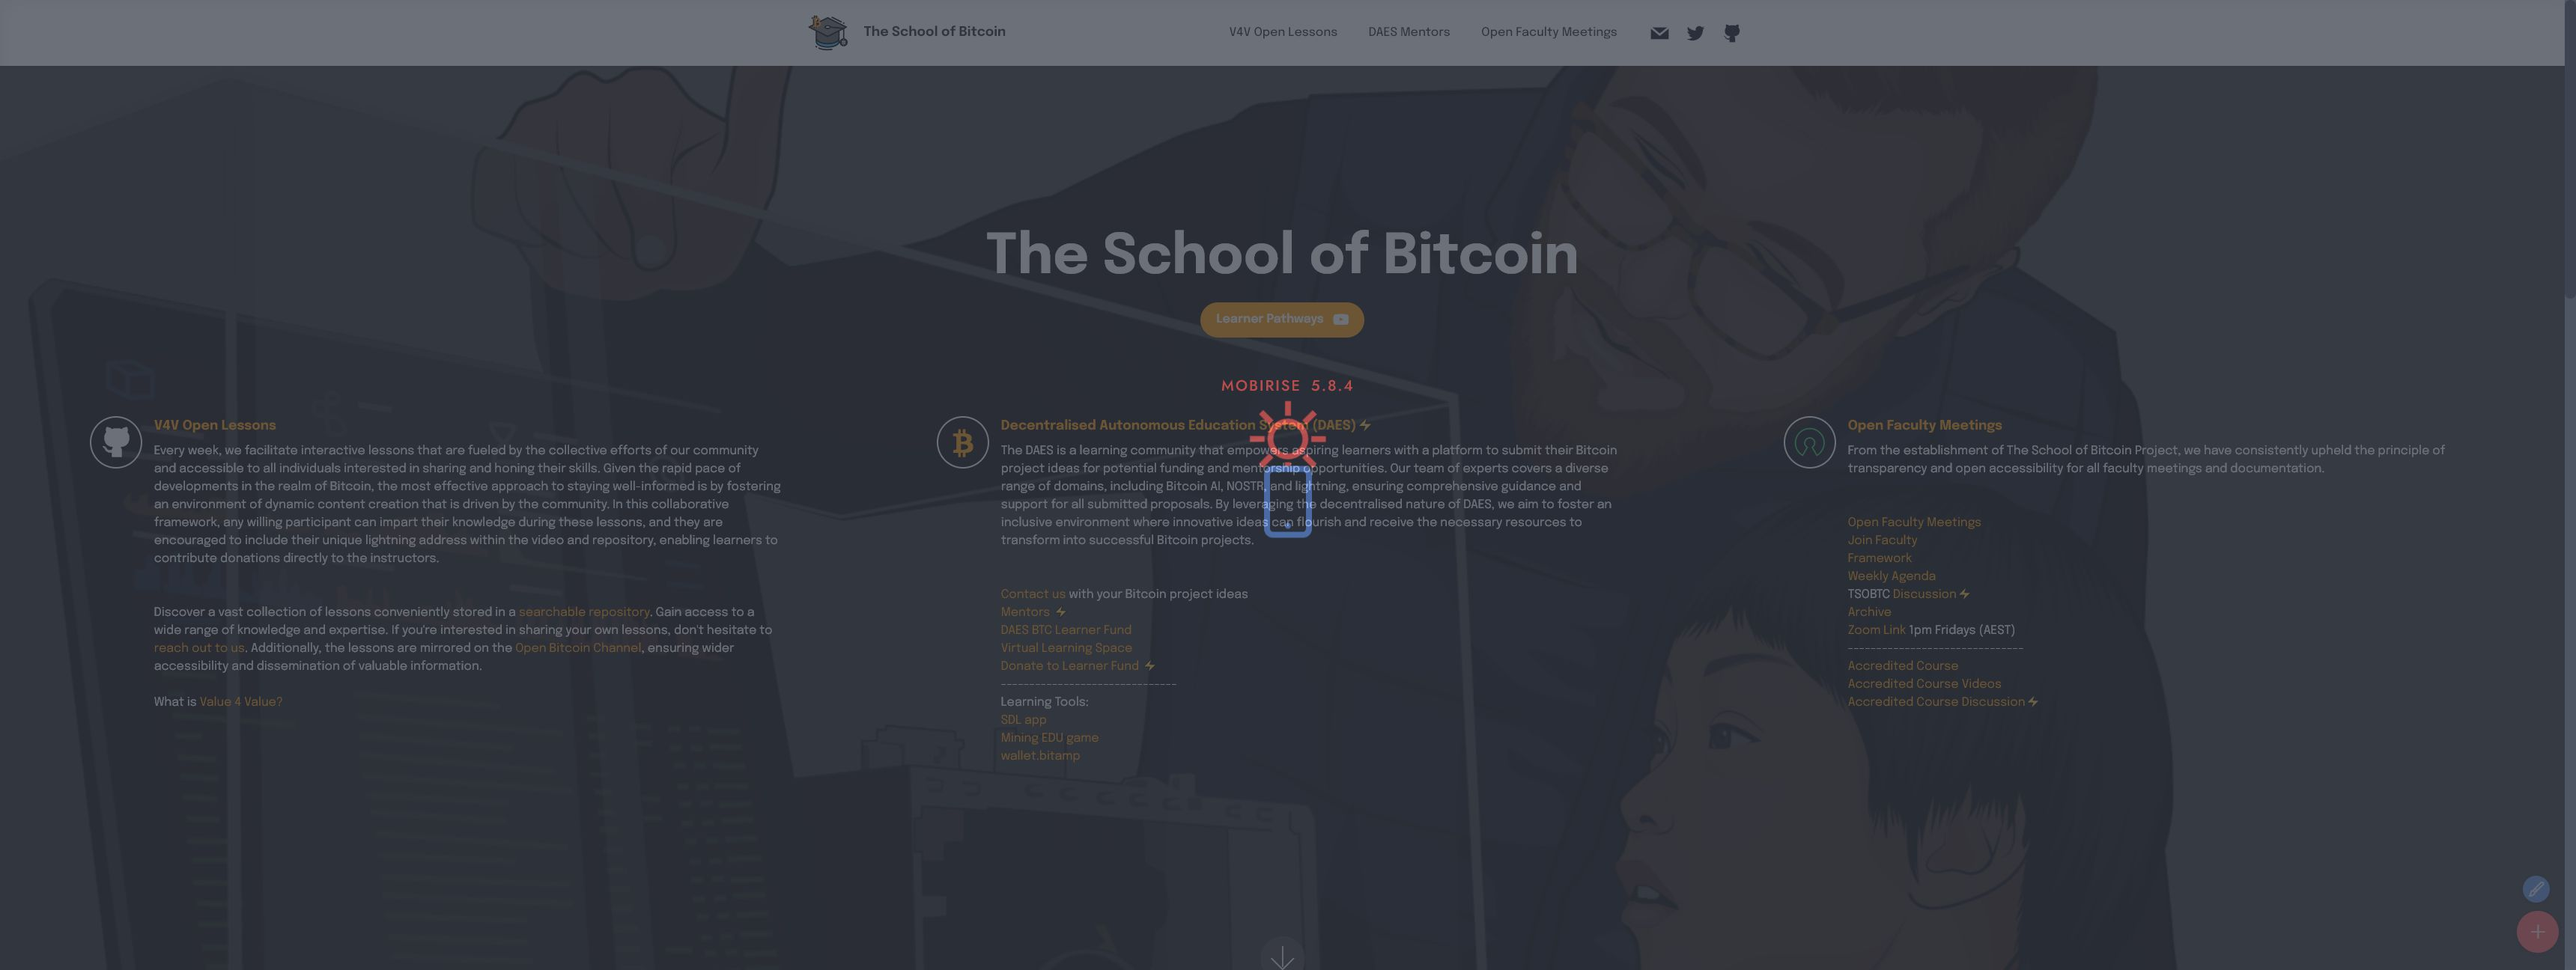
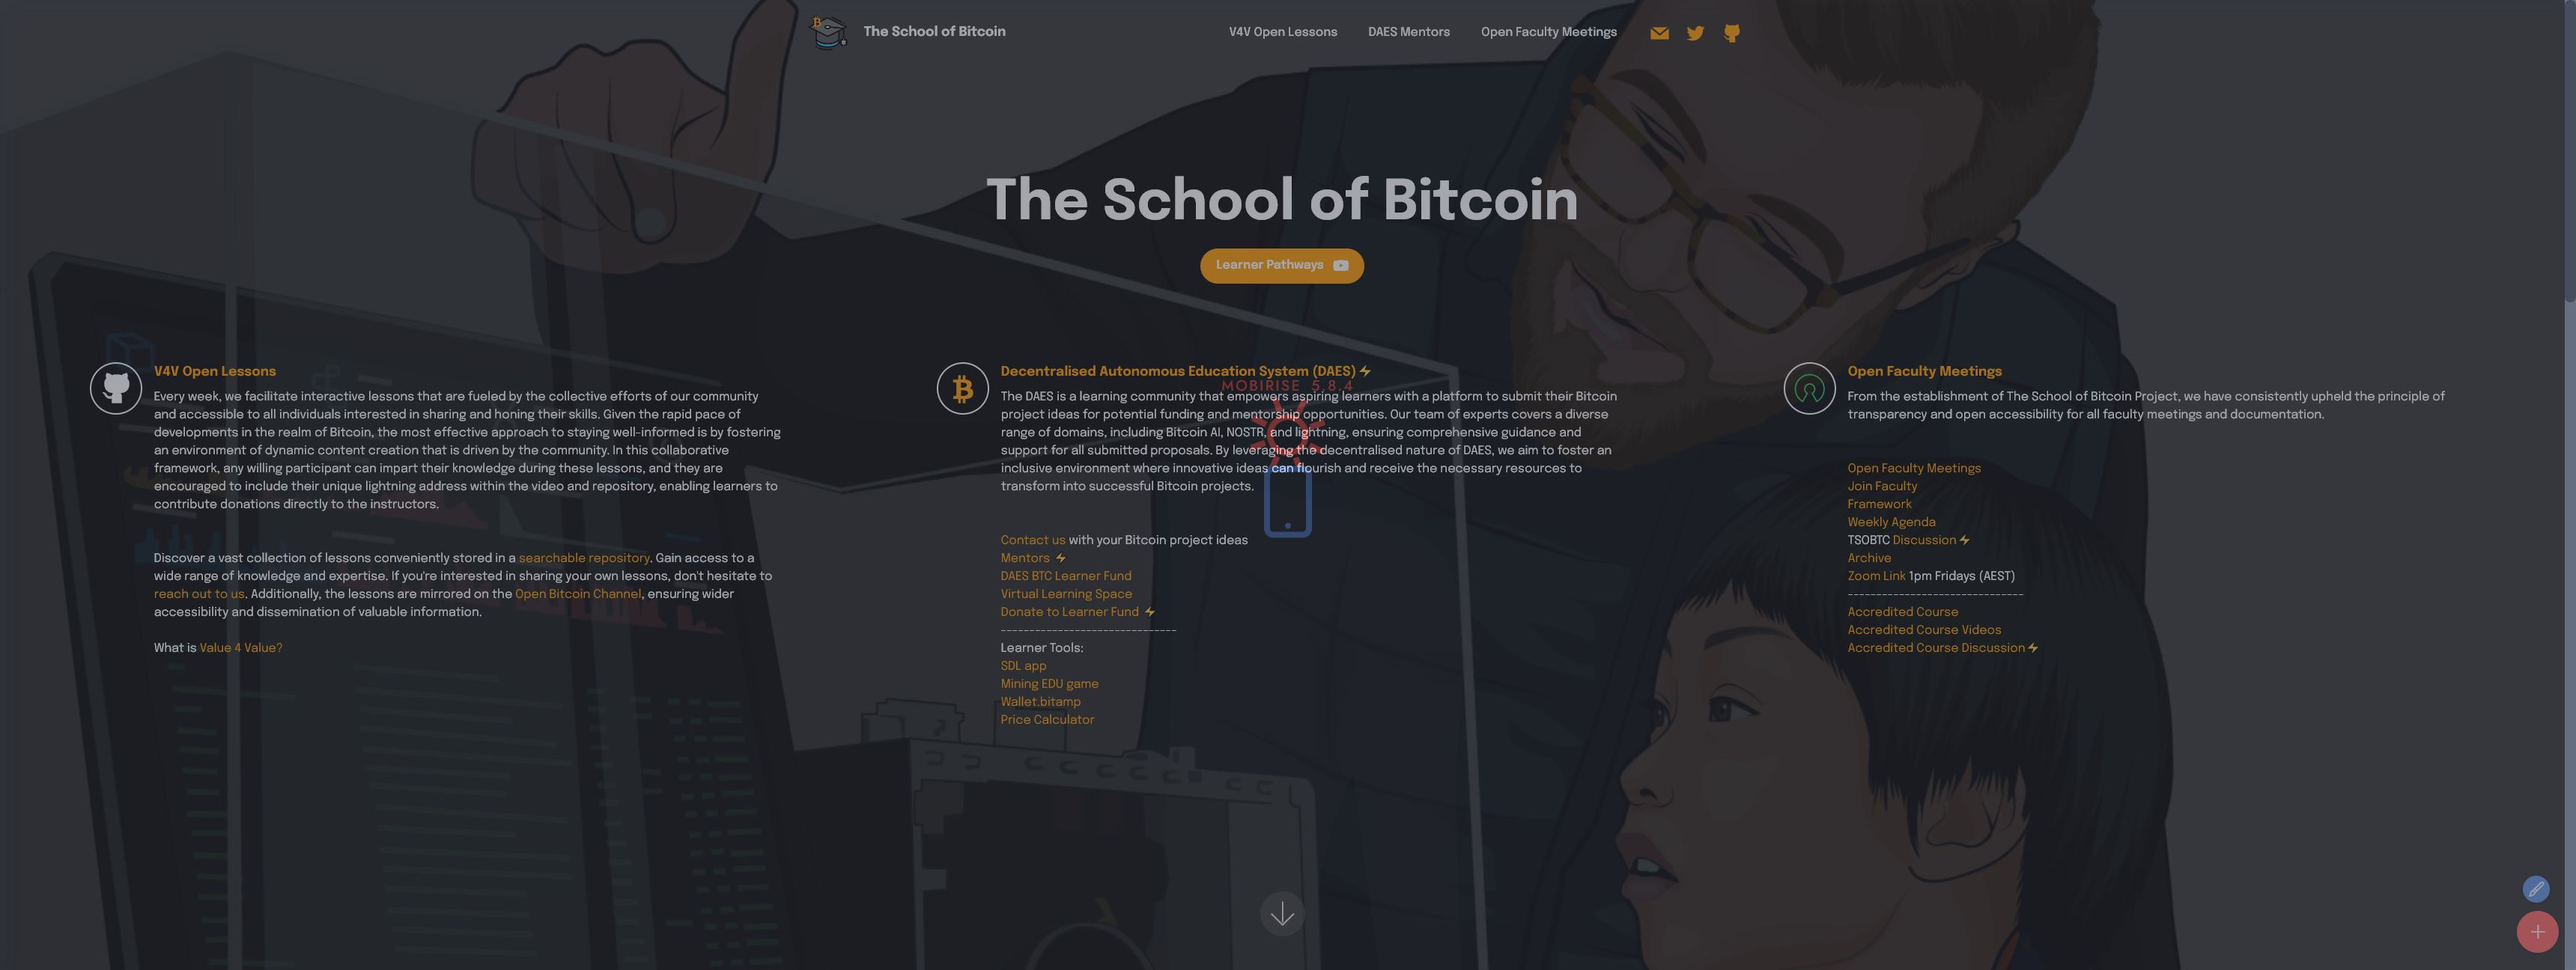
nostr
nostr

diff --git a/index.html b/index.html
@@ -19,8 +19,8 @@
   <link rel="stylesheet" href="assets/bootstrap/css/bootstrap-reboot.min.css">
   <link rel="stylesheet" href="assets/parallax/jarallax.css">
   <link rel="stylesheet" href="assets/animatecss/animate.css">
-  <link rel="stylesheet" href="assets/smart-cart/minicart-theme.css">
     <link rel="stylesheet" href="assets/popup-overlay-plugin/style.css">
+  <link rel="stylesheet" href="assets/smart-cart/minicart-theme.css">
   <link rel="stylesheet" href="assets/dropdown/css/style.css">
   <link rel="stylesheet" href="assets/socicon/css/styles.css">
   <link rel="stylesheet" href="assets/theme/css/style.css">
@@ -45,7 +45,7 @@
                         <img src="assets/images/tsobtc-logo-143x133.png" alt="" style="height: 4.2rem;">
                     
                 </span>
-                <span class="navbar-caption-wrap"><a class="navbar-caption text-black display-7" href="#">The School of Bitcoin   </a></span>
+                <span class="navbar-caption-wrap"><a class="navbar-caption text-white display-7" href="#">The School of Bitcoin   </a></span>
             </div>
             <button class="navbar-toggler" type="button" data-toggle="collapse" data-bs-toggle="collapse" data-target="#navbarSupportedContent" data-bs-target="#navbarSupportedContent" aria-controls="navbarNavAltMarkup" aria-expanded="false" aria-label="Toggle navigation">
                 <div class="hamburger">
@@ -56,9 +56,9 @@
                 </div>
             </button>
             <div class="collapse navbar-collapse" id="navbarSupportedContent">
-                <ul class="navbar-nav nav-dropdown nav-right" data-app-modern-menu="true"><li class="nav-item"><a class="nav-link link text-black text-primary display-4" href="https://v4v.theschoolofbitcoin.com">V4V Open Lessons</a></li>
-                    <li class="nav-item"><a class="nav-link link text-black text-primary display-4" href="index.html#teams1-3n">DAES Mentors</a></li>
-                    <li class="nav-item"><a class="nav-link link text-black text-primary display-4" href="https://www.youtube.com/playlist?list=PL6yevUXkWx92-Ru37ebxjxcdr6qgv2wr2" target="_blank">Open Faculty Meetings</a>
+                <ul class="navbar-nav nav-dropdown nav-right" data-app-modern-menu="true"><li class="nav-item"><a class="nav-link link text-white display-4" href="https://v4v.theschoolofbitcoin.com">V4V Open Lessons</a></li>
+                    <li class="nav-item"><a class="nav-link link text-white display-4" href="index.html#teams1-3n">DAES Mentors</a></li>
+                    <li class="nav-item"><a class="nav-link link text-white display-4" href="https://www.youtube.com/playlist?list=PL6yevUXkWx92-Ru37ebxjxcdr6qgv2wr2" target="_blank">Open Faculty Meetings</a>
                     </li></ul>
                 <div class="icons-menu">
                     <a class="iconfont-wrapper" href="mailto:15s59m84y@mozmail.com">
@@ -164,6 +164,14 @@
 		</a>
 	</div>
 </section>
+
+<div id="custom-html-3u"><script
+	src="https://nostri.chat/public/bundle.js"
+	data-chat-type="GROUP"
+	data-chat-id="<GROUP_ID_IN_HEX_FORMAT>"
+	data-relays="wss://relay.f7z.io,wss://nos.lol,wss://relay.nostr.band"
+></script>
+<link rel="stylesheet" href="https://nostri.chat/public/bundle.css"></div>
 
 <section data-bs-version="5.1" class="teams1 cid-tEzshZaEn5" id="teams1-3n">
     
@@ -412,9 +420,9 @@
   <script src="assets/parallax/jarallax.js"></script>
   <script src="assets/smoothscroll/smooth-scroll.js"></script>
   <script src="assets/ytplayer/index.js"></script>
-  <script src="assets/smart-cart/minicart.js"></script>
+      <script src="assets/smart-cart/minicart.js"></script>
   <script src="assets/smart-cart/minicart-customizer.js"></script>
-      <script src="assets/dropdown/js/navbar-dropdown.js"></script>
+  <script src="assets/dropdown/js/navbar-dropdown.js"></script>
   <script src="assets/popup-plugin/script.js"></script>
   <script src="assets/popup-video-plugin/script.js"></script>
   <script src="assets/popup-overlay-plugin/script.js"></script>

diff --git a/assets/mobirise/css/mbr-additional.css b/assets/mobirise/css/mbr-additional.css
@@ -705,8 +705,6 @@ a {
 .cid-tEEhQtvaZD {
   z-index: 1000;
   width: 100%;
-  position: relative;
-  min-height: 60px;
 }
 .cid-tEEhQtvaZD nav.navbar {
   position: fixed;
@@ -783,13 +781,13 @@ a {
   }
 }
 .cid-tEEhQtvaZD .iconfont-wrapper {
-  color: #000000 !important;
+  color: #ff9900 !important;
   font-size: 1.5rem;
   padding-right: 0.5rem;
 }
 .cid-tEEhQtvaZD .dropdown-menu,
 .cid-tEEhQtvaZD .navbar.opened {
-  background: #ffffff !important;
+  background: #ff9966 !important;
 }
 .cid-tEEhQtvaZD .nav-item:focus,
 .cid-tEEhQtvaZD .nav-link:focus {
@@ -823,8 +821,8 @@ a {
   min-height: 70px;
   transition: all 0.3s;
   border-bottom: 1px solid transparent;
-  box-shadow: 0 1px 3px 0 rgba(0, 0, 0, 0.1);
-  background: #ffffff;
+  position: absolute;
+  background: rgba(255, 153, 102, 0);
 }
 .cid-tEEhQtvaZD .navbar.opened {
   transition: all 0.3s;
@@ -974,7 +972,7 @@ a {
   padding: 0.667em 1.667em;
 }
 .cid-tEEhQtvaZD .navbar.navbar-expand-lg .dropdown .dropdown-menu {
-  background: #ffffff;
+  background: #ff9966;
 }
 .cid-tEEhQtvaZD .navbar.navbar-expand-lg .dropdown .dropdown-menu .dropdown-submenu {
   margin: 0;
@@ -1143,6 +1141,18 @@ a {
     padding-right: 2rem;
     padding-left: 2rem;
   }
+}
+#custom-html-3u {
+  /* Type valid CSS here */
+}
+#custom-html-3u div {
+  padding: 80px 0;
+  color: #777;
+  text-align: center;
+}
+#custom-html-3u p {
+  font-size: 60px;
+  color: #777;
 }
 .cid-tEzshZaEn5 {
   padding-top: 6rem;
